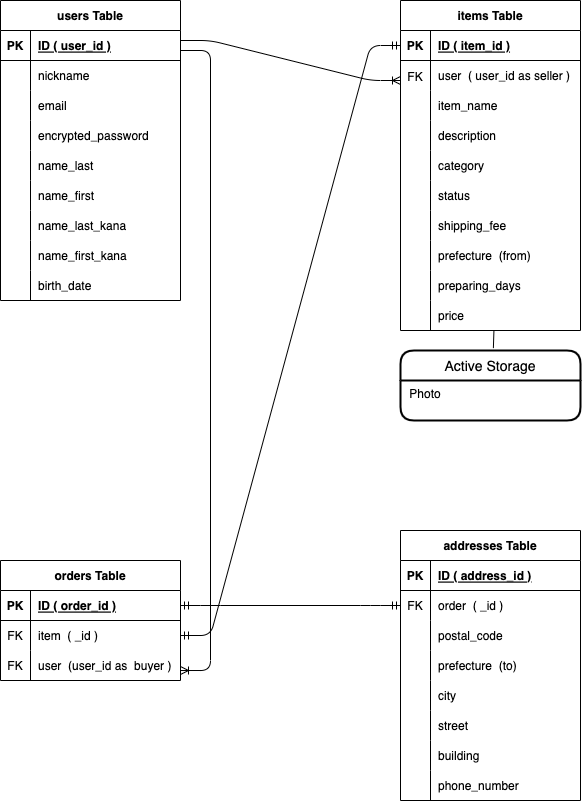
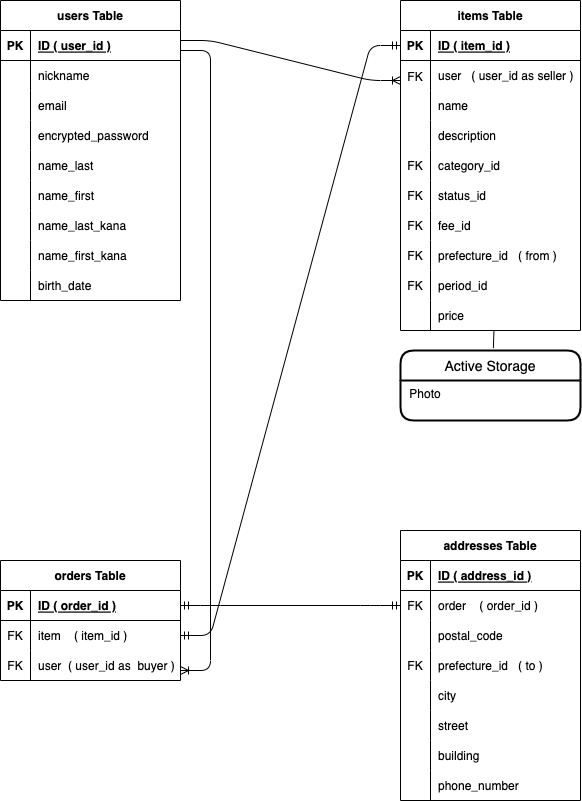
データベース設計-修正

diff --git a/README.md b/README.md
@@ -1,16 +1,16 @@
 # テーブル設計
 
 # users テーブル
-| Column             | Type   | Options                   |
-| ------------------ | ------ | ------------------------- |
-| nickname           | string | null: false, unique: true |
-| email              | string | null: false               |
-| encrypted_password | string | null: false               |
-| name_last          | string | null: false               |
-| name_first         | string | null: false               |
-| name_last_kana     | string | null: false               |
-| name_first_kana    | string | null: false               |
-| birth_date         | date   | null: false               |
+| Column             | Type   | Options     |
+| ------------------ | ------ | ----------- |
+| nickname           | string | null: false |
+| email              | string | null: false |
+| encrypted_password | string | null: false |
+| name_last          | string | null: false |
+| name_first         | string | null: false |
+| name_last_kana     | string | null: false |
+| name_first_kana    | string | null: false |
+| birth_date         | date   | null: false |
 
 # Association
 - has_many :items
@@ -24,11 +24,11 @@
 | user           | references | null: false, foreign_key: true |
 | item_name      | string     | null: false                    |
 | description    | text       | null: false                    |
-| category       | string     | null: false                    |
-| status         | string     | null: false                    |
-| shipping_fee   | string     | null: false                    |
-| prefecture     | string     | null: false                    |
-| preparing_days | string     | null: false                    |
+| category_id    | integer     | null: false                    |
+| status_id      | integer     | null: false                    |
+| fee_id         | integer     | null: false                    |
+| prefecture_id  | integer     | null: false                    |
+| period_id      | integer     | null: false                    |
 | price          | integer    | null: false                    |
 
 # Association
@@ -54,13 +54,13 @@
 | Column        | Type       | Options                        |
 | ------------- | ---------- | ------------------------------ |
 | order         | references | null: false, foreign_key: true |
-| postal_code   | integer    | null: false                    |
+| postal_code   | string     | null: false                    |
 | pref          | string     | null: false                    |
 | city          | string     | null: false                    |
 | street        | string     | null: false                    |
 | building      | string     |                                |
-| phone_number  | integer    | null: false, unique: true      |
+| phone_number  | string     | null: false                    |
 
 # Association
 - belongs_to :order
-- belongs_to :prefecture
+
